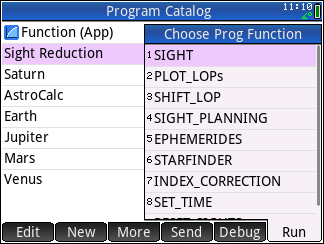
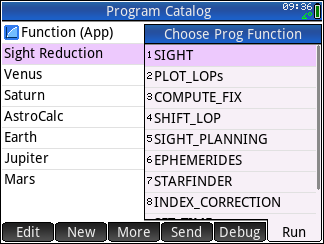
Added fix computation logic

diff --git a/README.md b/README.md
@@ -150,7 +150,7 @@ The color theme used by the calculator can be set to Light or Dark mode on page 
 The program keeps data about sights and lines of position in the calculator's memory, and that data is preserved when the calculator is turned off. Generally, you should clear the program's memory prior to any new fix. If you ever get an **Invalid Input** error, you likely inadvertently opened the **Sight Reduction** program for editing and need to clear the memory (see the **NOTE** in the [Confirming that Everything Works](#confirming-that-everything-works) section). To clear all program variables:
 
 1. Highlight the **Sight Reduction** program and press the <img alt="Run" src="https://github.com/placidanomaly/HPPrimeSightReduction/blob/main/img/keys/run.png" valign="middle"> soft key
-2. From the list of options, pick **RESET_SIGHTS** on the touchscreen or with the arrows and the <img alt="Enter" src="https://github.com/placidanomaly/HPPrimeSightReduction/blob/main/img/keys/enter.png" valign="middle"> key, or press the `9` key. Click any key to dismiss the confirmation message.
+2. From the list of options, pick **RESET_SIGHTS** on the touchscreen or with the arrows and the <img alt="Enter" src="https://github.com/placidanomaly/HPPrimeSightReduction/blob/main/img/keys/enter.png" valign="middle"> key. Click any key to dismiss the confirmation message.
 
 ![Resetting variables](https://github.com/placidanomaly/HPPrimeSightReduction/blob/main/img/sightreductionprograms.png)
 
@@ -257,9 +257,30 @@ Performing a sight reduction is a straightforward process:
 
 ## Making a Fix
 
-Once you've entered 2 or more sights in different LOP registers, you can make a fix from a graphical representation of the LOPs on a Cartesian plane. To do that, run the **Sight Reduction** program and select **PLOT LOPs**. This will open the calculator's Function app and a line of position will be plotted for each LOP defined in the **SIGHT** program. The calculator functions can then be used to calculate the intersection of LOPs, etc., and the cursor can be used to manually find the centroid or some other position in the "cocked hat" to make a fix. In order to determine which line color corresponds to which LOP, use the **Symb** key to view the color coding and the corresponding LOP equations, and use the **Plot** key to go back to the graph.
+Once 2 or more LOPs have been defined (i.e. 2 or more sights have been entered in separate LOP registers), a fix can be made either manually by visualizing the LOP plot or automatically by computing a center of LOP intersections.
+
+### Manual Fix
+
+A manual fix is made by visualizing the LOPs on a Cartesian plane with longitude as the horizontal axis and latitude the vertical axis. To do that, run the **Sight Reduction** program and select **PLOT LOPs**. This will open the calculator's Function app and a line of position will be plotted for each LOP defined in the **SIGHT** program. The calculator functions accessible through the soft keys can then be used to calculate the intersection of LOPs, etc., and the cursor can be used to manually find the centroid or some other position inside the "cocked hat" to make a fix. In order to determine which line color corresponds to which LOP, use the **Symb** key to view the color coding and the corresponding LOP equations, and use the **Plot** key to go back to the graph.
 
 ![Sample LOP plot](https://github.com/placidanomaly/HPPrimeSightReduction/blob/main/img/plot_lop.png)
+
+### Computed Fix
+
+Alternatively, the calculator can compute a fix based on LOPs. The computation varies depending on how many LOPs are defined:
+
+  * 2 LOPs: the intersection of the 2 LOPs is the fix
+  * 3 LOPs: the symmedian center, or Lemoine point, of the triangle formed by the 3 LOPs
+  * 4 or more LOPs: the centroid of all the intersections of the LOPs with one another, which is the mean value of longitude and latitude of all the intersections
+
+To compute a fix, run the **Sight Reduction** program and select **COMPUTE_FIX**. The output will indicate which method was used to compute the fix and the longitude and latitude of the fix. In the screen shots below, we computed a fix after two sights, then entered a third sight and computed the fix again, and entered a fourth sight and computed the fix again:
+
+![Fix with 2 sights](https://github.com/placidanomaly/HPPrimeSightReduction/blob/main/img/fix2.png)
+
+![Fix with 3 sights](https://github.com/placidanomaly/HPPrimeSightReduction/blob/main/img/fix3.png)
+
+![Fix with 4 sights](https://github.com/placidanomaly/HPPrimeSightReduction/blob/main/img/fix4.png)
+
 
 ## Ephemerides
 The program can show the Greenwich Hour Angle (GHA) and declination of the Sun, Moon, Mars, Venus, Jupiter, Saturn, and the 58 celestial navigation stars for any point in time between 1800 and 2200, as well as the corresponding azimuth and altitude from a specified geographical location. The semi-diameter of certain bodies will also be shown. A graphical representation of the ephemerides is available through the [Star Finder function](#star-finder) which is covered in the next section. To use this feature:
